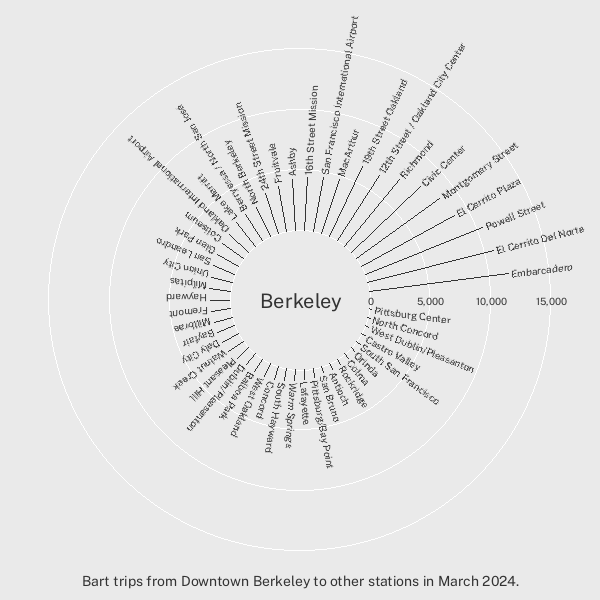
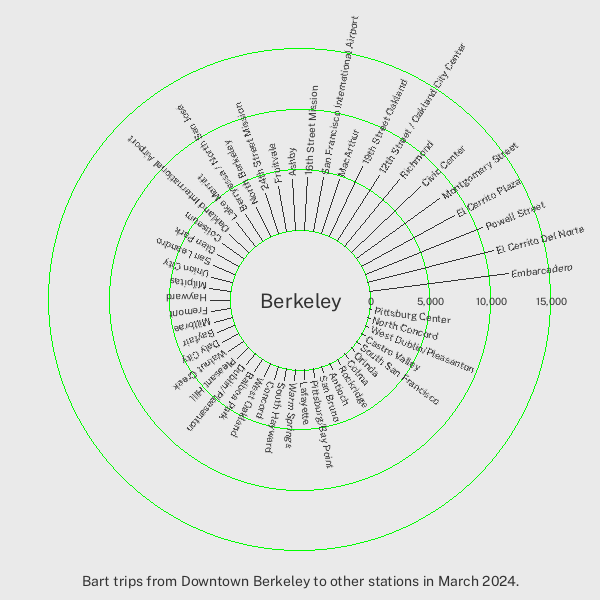
update color circles

diff --git a/draw_berkeley_bart.py b/draw_berkeley_bart.py
@@ -15,9 +15,9 @@ NUM_ARGS = 2
 USAGE_STR = 'USAGE: python draw_berkeley_bart.py input_loc output_loc'
 
 DEFAULT_DATA_LOCATION = 'berkeley_trips.csv'
-BG_COLOR = '#00FF00'
+BG_COLOR = '#EAEAEA'
 FG_COLOR = '#333333'
-TICK_COLOR = '#FFFFFF'
+TICK_COLOR = '#00FF00'
 TITLE = 'Bart trips from Downtown Berkeley to other stations in March 2024.'
 WIDTH = 600
 HEIGHT = 600
